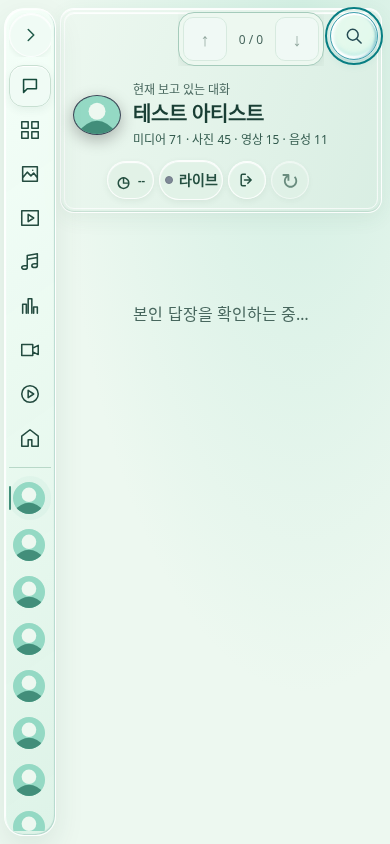
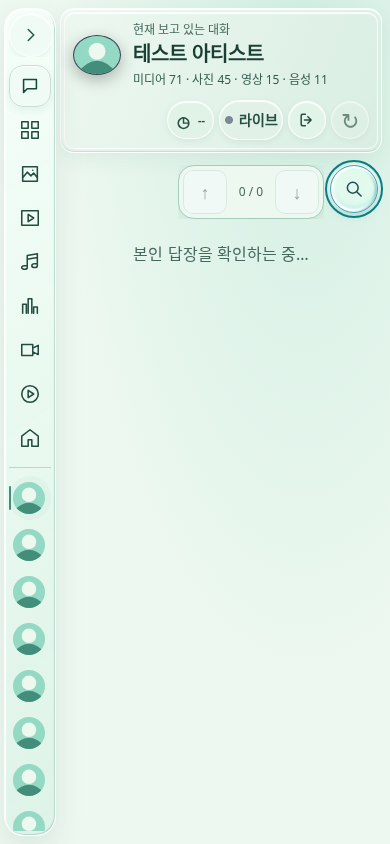
fix(ui): place search directly below header and hide idle arrows

diff --git a/glowme.css b/glowme.css
@@ -502,16 +502,13 @@ html.glowme .reply-content{color:#244c42}
 .glowme-phase3 #chatToolsPanel #chatMatchNav[hidden]{display:none}
 .glowme-phase3 #chatToolsPanel #chatMatchNav .btn{min-width:40px;min-height:40px}
 
-/* Upper search dock: reply navigation grows beside its search button. */
+/* Search dock below the header: reply navigation grows beside its search button. */
 .glowme-phase3 #chatSearchDock{position:fixed;top:max(12px,env(safe-area-inset-top));right:max(12px,env(safe-area-inset-right));z-index:460;display:flex;flex-direction:row-reverse;align-items:flex-start;gap:6px}
 .glowme-phase3 #chatSearchDock[hidden]{display:none}
-.glowme-phase3.chat-search-available .top-auth-controls{padding-inline-end:60px}
-.glowme-phase3 .chat-match-slot{max-width:0;opacity:0;overflow:hidden;transform:translateX(8px);transition:max-width 200ms ease,opacity 180ms ease,transform 200ms ease}
-.glowme-phase3 .chat-match-slot.expanded{max-width:160px;opacity:1;transform:none}
+.glowme-phase3 .chat-match-slot{max-width:0;opacity:0;visibility:hidden;pointer-events:none;overflow:hidden;transform:translateX(8px);transition:max-width 200ms ease,opacity 180ms ease,transform 200ms ease,visibility 0s linear 200ms}
+.glowme-phase3 .chat-match-slot.expanded{max-width:160px;opacity:1;visibility:visible;pointer-events:auto;transform:none;transition-delay:0s}
 .glowme-phase3 .chat-match-slot #chatMatchNav{position:static;flex-wrap:nowrap;white-space:nowrap;padding:4px;gap:4px;background:#edf8f0;border:1px solid #a5cbbb;border-radius:16px;box-shadow:0 3px 12px #244b3a1a}
 .glowme-phase3 .chat-match-slot #chatMatchNav .btn{width:44px;height:44px;padding:0}
 .glowme-phase3 .chat-match-slot #chatMatchPosition{font-size:12px;font-variant-numeric:tabular-nums}
 @media(prefers-reduced-motion:reduce){.glowme-phase3 .chat-match-slot{transition:none;transform:none}}
 
-@media(min-width:701px){.glowme-phase3.chat-search-available.chat-reply-navigation .top-auth-controls{padding-inline-end:220px}}
-@media(max-width:700px){.glowme-phase3.chat-search-available .topbar{padding-top:72px}}

diff --git a/web-glowme.js b/web-glowme.js
@@ -127,7 +127,9 @@
     });
   }).observe(calendar,{attributes:true,attributeFilter:['class']});
   function fitPanel(){
-    const header=$('.viewer-header').getBoundingClientRect();const dockBottom=searchDock.hidden?0:searchDock.getBoundingClientRect().bottom;const top=Math.max(dockBottom+12,12,Math.min(header.bottom+12,innerHeight-200));
+    const header=$('.viewer-header').getBoundingClientRect();
+    searchDock.style.top=`${Math.max(12,header.bottom+12)}px`;
+    const dockBottom=searchDock.hidden?0:searchDock.getBoundingClientRect().bottom;const top=Math.max(dockBottom+12,12,Math.min(header.bottom+12,innerHeight-200));
     panel.style.setProperty('--glow-tools-top',`${top}px`);search.style.removeProperty('visibility');
   }
   function syncSelection(n){

diff --git a/docs/design-review/search-followup/README.md b/docs/design-review/search-followup/README.md
@@ -3,7 +3,7 @@
 - 브랜치: `fix/glowme-search-startup`, 기준 main `c10739d8f01d78c4cba1982e1f1b3fa6be8020bd`.
 - 초기 HTML에 Glow ME 클래스를 선언해 외부 셸 JavaScript를 기다리는 동안에도 민트 테마로 표시. CSS 로딩은 기존 render-blocking 방식 유지.
 - 하단 검색 버튼을 오른쪽 상단 고정 도크로 이동. ‘내 글에 온 답장’에서만 같은 도크에 이전/다음·위치 표시를 펼침. 일반 텍스트 검색 화살표는 열린 검색 패널 안에서 유지. 넓은 설치 PWA의 고정 검색 패널 동작 유지.
-- 버튼 위치가 이동하지 않는 200ms 펼침, 모션 감소 설정, 최소44px 화살표 버튼, 접힌 영역 inert. 모바일 상단 정보·검색 패널과 겹치지 않도록 배치.
+- 버튼 위치가 이동하지 않는 200ms 펼침, 모션 감소 설정, 최소44px 화살표 버튼, 접힌 영역 inert. 검색 패널과 겹치지 않도록 배치. 이전 수정의 모바일 상단 추가 padding과 헤더 버튼 여백은 제거.
 - 원본 답장 판별·검색·날짜·재생·인증·다운로드 함수 미변경. PR53은 재사용하지 않으며 main 배포 승인 없음.
 
 ## 검증
@@ -21,7 +21,16 @@
 전부 합성 데이터. 상태 확인 중의 0/0 예시이며 실제 계정 정보가 아님.
 
 - [셸 JavaScript 실행 전 민트 화면](startup-before-shell.png)
-- [390px 답장 도크](reply-dock-390.png)
+- [390px 기본 화면 — 화살표 숨김](default-dock-390.png)
+- [980px 기본 화면 — 화살표 숨김](default-dock-980.png)
+- [390px 답장 모드 — 화살표 펼침](reply-dock-390.png)
 - [980px 넓은 viewport](reply-dock-980.png)
 
 재개 시 이 브랜치와 최신 git status/동일 PR/CI를 확인하고, 완료한 수정은 재작성하지 않는다. 추가 CI 실패만 원인 분석한다. main 병합·배포는 별도 승인 필요.
+
+## 위치 피드백 반영
+
+- 사용자 지정 위치는 화면 맨 위가 아니라 상단바 바로 아래이다. `fitPanel()`에서 실제 헤더 하단+12px로 도크 위치를 맞추며 스크롤/크기 변경을 반영한다.
+- ↑↓는 기본 숨김(visibility/opacity/폭0, pointer-events:none, inert 및 aria-hidden). 답장 모드에서만 펼치며 해제 시 접힌다. 이전 화살표 캡처는 답장 모드를 의도적으로 켠 검증 상태였다.
+- 320/390/980/1440 실제 Chromium 도크 검사와 기본/펼침 캡처 갱신. 320/844/PWA 검색·달력 검사 통과. 답장 전체 검사1440/390 단독 재검증 통과. 병렬 실행 때 기존 날짜 위치 150ms 검사가1회 실패했으며 날짜 로직/기대는 수정하지 않았음. 최신 CI에서 해당 검사의 재현 여부를 확인할 것.
+- 동일 PR #55·브랜치 유지. main c10739d 및 공개 사이트 미변경.
